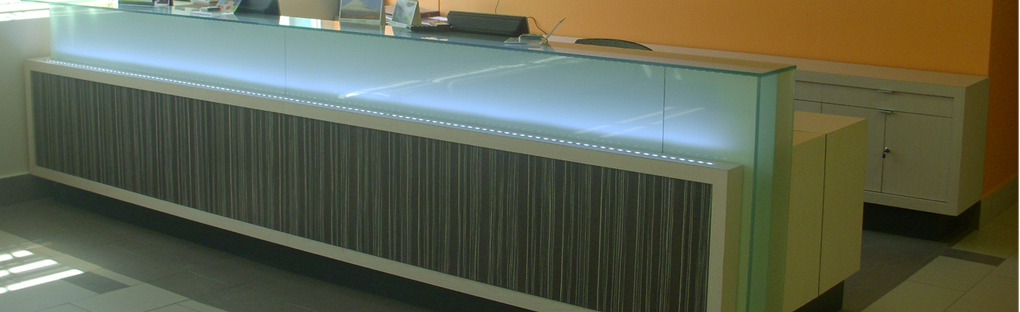
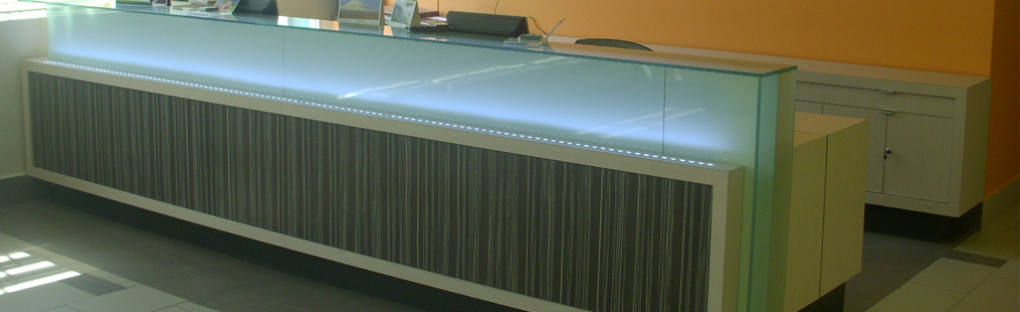
Agregar fotos - cambiar pixeles de Franja

diff --git a/css/styles-own.css b/css/styles-own.css
@@ -199,7 +199,7 @@
 /*Estilos Franja */
 
 #franja{
-    background:url(../images/franja.png) no-repeat center center;
+    background:url(../images/huincha.png) no-repeat center center;
     background-size: cover;
     height: 9em;
 

diff --git a/index.php b/index.php
@@ -1,6 +1,6 @@
-<?php   
-require('visitas/countbdd.php');   
-echo $men;   
+<?php //   
+//require('visitas/countbdd.php');   
+//echo $men;   
 ?>  
 <!DOCTYPE html>
 <html>
@@ -134,7 +134,7 @@ echo $men;
                     <div class="container_12">
                         <div class="grid_9 omega">
                             <ul class="menu sf-menu">
-                                <li><a href="./index.html">Home</a>
+                                <li><a href="./index.php">Home</a>
                                     
                                 <li><a >Servicios</a>
                                     <ul> 
@@ -177,6 +177,8 @@ echo $men;
                         <img src="./images/sliders/nivoslider/slide2.png" alt="" />
                         <img src="./images/sliders/nivoslider/slide3.png" alt="" />
                         <img src="./images/sliders/nivoslider/slide4.png" alt=""  />
+                        <img src="./images/sliders/nivoslider/slide5.png" alt=""  />
+                        <img src="./images/sliders/nivoslider/slide6.png" alt=""  />
                     </div>
                     <!--<div id="htmlcaption" class="nivo-html-caption">
                         <p> Imagenes de Nuestros Trabajos</p>

diff --git a/enviarMail.php b/enviarMail.php
@@ -71,7 +71,7 @@ if ($listaDeErrores != "listaVacia") {
 
     if (mail("contacto@dev-websur.tk", $asunto, $mensajeCompleto, $header)) {
         echo "<p style='text-align:center;'>Su mensaje ha sido enviado</p>";
-        header("location:./index.html");
+       header("location:./index.php");
     } else {
         echo "<p style='text-align:center;'>Hay problemas de comunicacion con el servidor</p>";
     }
